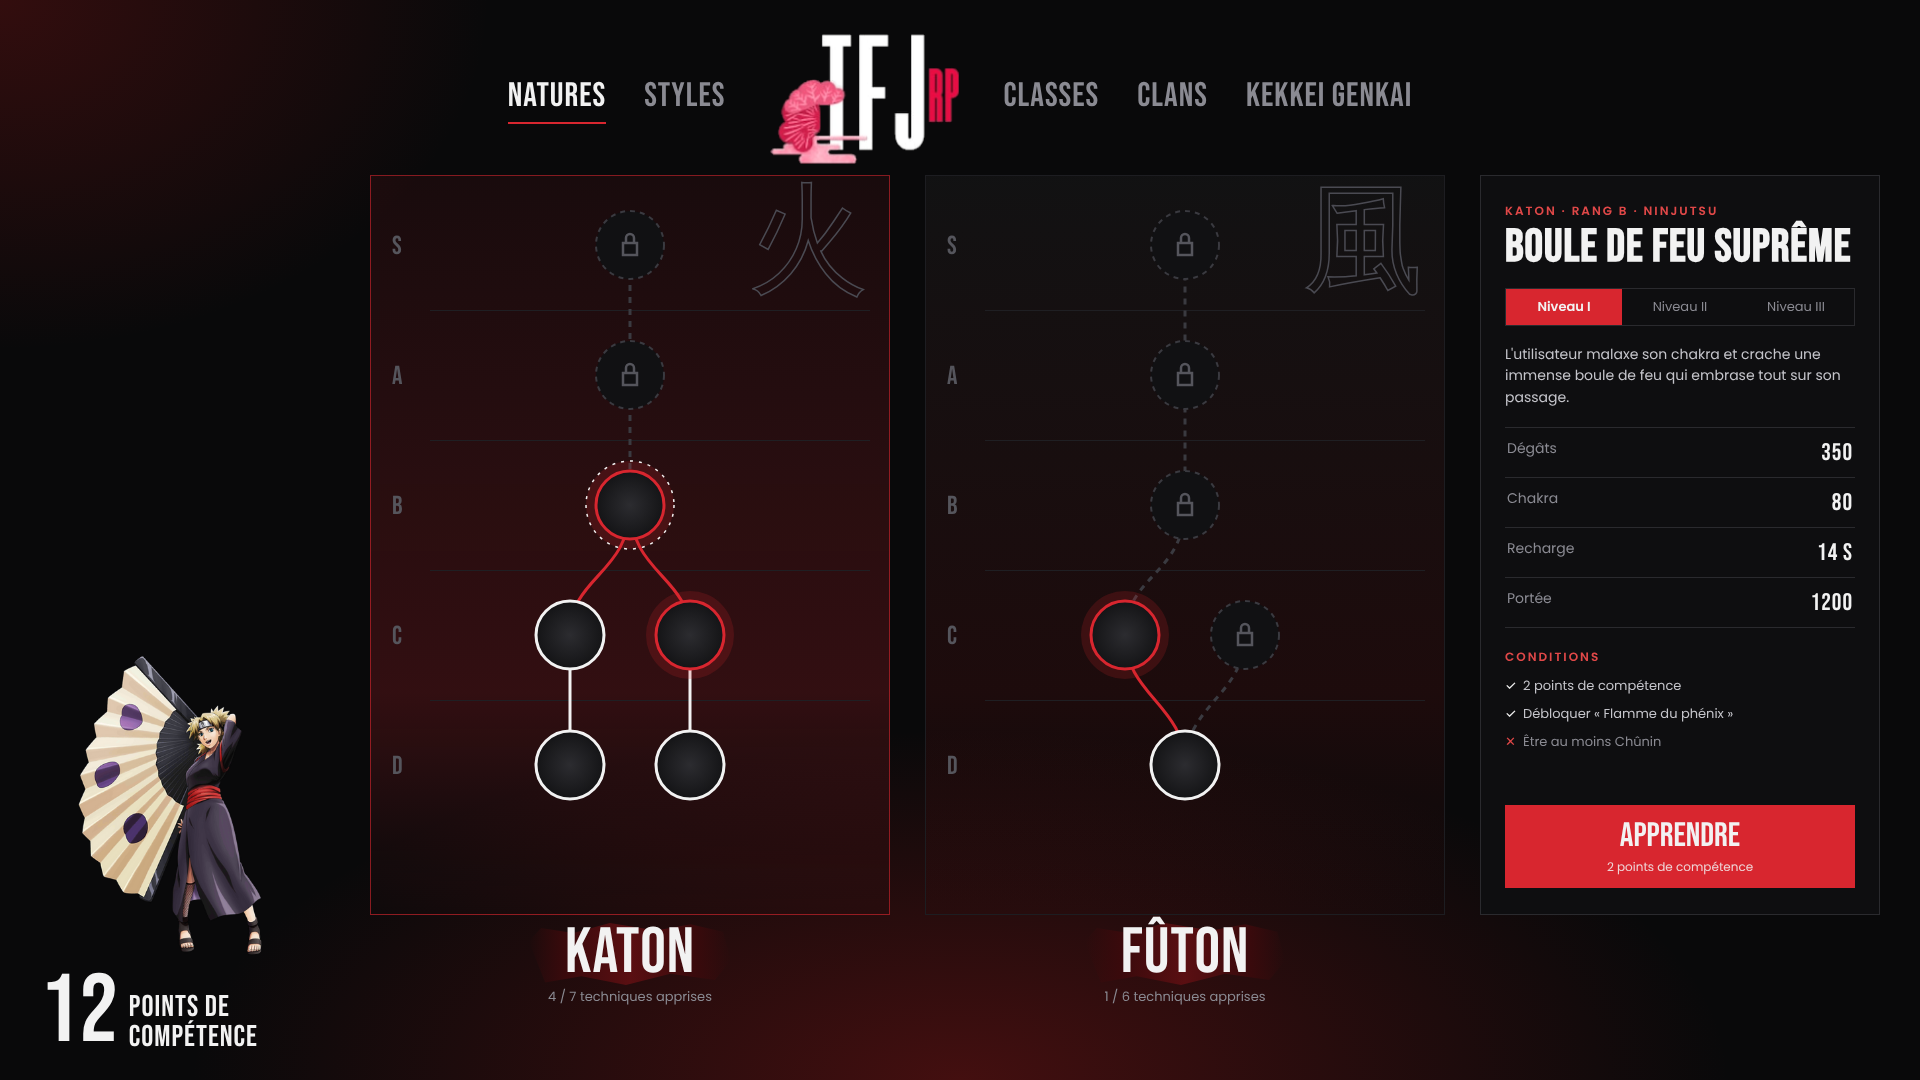
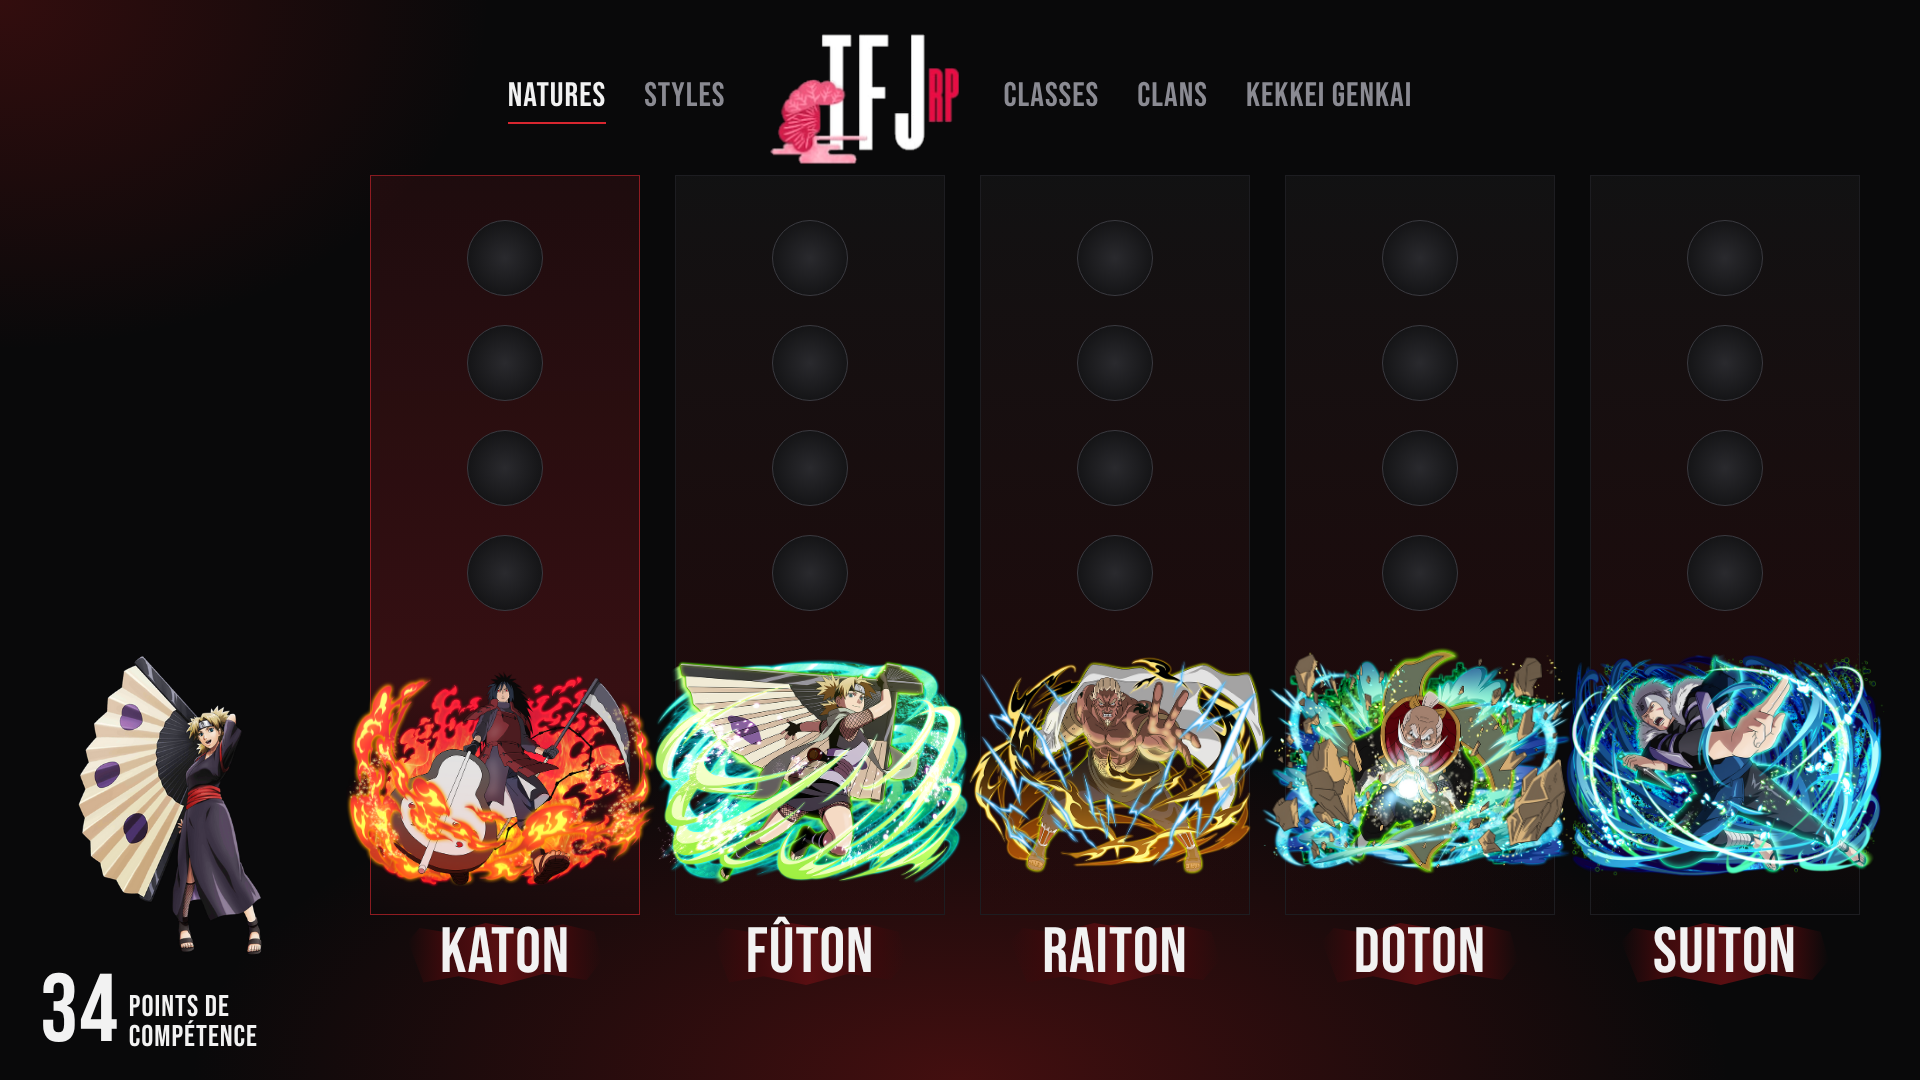
F4 Natures : meme disposition que Classes, 5 natures avec leurs illustrations
Claude-Session: https://claude.ai/code/session_01WNq6bnfK84GAyjbejrSsQj

diff --git a/maquettes/classe/maquette_f4_natures.html b/maquettes/classe/maquette_f4_natures.html
@@ -5,109 +5,102 @@
 <title>TFJ F4 Natures</title>
 <link href="https://fonts.googleapis.com/css2?family=Bebas+Neue&family=Poppins:wght@400;600;700&display=block" rel="stylesheet">
 <style>
-/* Onglet Natures du F4, meme style que maquette_f4_classe.html */
-:root{--noir:#09090a;--bord:#2a2a2e;--gris:#8a8a92;--gris2:#3a3a40;--blanc:#f2f2f2;--rouge:#b01a1a;--rougeV:#d8262f;--rougeT:#e04848}
+/* Meme disposition que le F4 "Classe" actuel, style TFJ noir / rouge / blanc.
+   Images : deposer les fichiers dans images/ avec les noms indiques sur chaque emplacement. */
+:root{--noir:#09090a;--bord:#2a2a2e;--gris:#8a8a92;--gris2:#3a3a40;--blanc:#f2f2f2;--rouge:#b01a1a;--rougeV:#d8262f}
 *{box-sizing:border-box;margin:0;padding:0}
 body{width:1920px;height:1080px;overflow:hidden;position:relative;font-family:Poppins,sans-serif;color:var(--blanc);
  background:radial-gradient(1100px 500px at 50% 100%,rgba(176,26,26,.35),transparent 70%),radial-gradient(700px 500px at 0% 0%,rgba(176,26,26,.25),transparent 70%),var(--noir)}
 .t{font-family:'Bebas Neue',sans-serif;letter-spacing:1px}
+/* emplacement d'image : cadre pointille tant que l'image n'est pas fournie */
+.slot{position:absolute;display:flex;align-items:center;justify-content:center;border:1px dashed #55555c;color:#77777e;font-size:13px;text-align:center}
+.slot img{position:absolute;inset:0;width:100%;height:100%;object-fit:contain}
+.slot img.ko{display:none}
+.slot:has(img:not(.ko)){border:none;color:transparent}
+/* onglets du haut */
 .nav{position:absolute;top:34px;left:0;right:0;display:flex;justify-content:center;align-items:center;gap:38px}
 .nav a{font-size:34px;color:var(--gris);padding-bottom:6px;border-bottom:2px solid transparent}
+.nav a{display:flex;align-items:center;gap:10px}
 .nav a.on{color:var(--blanc);border-color:var(--rougeV)}
-.nav img{width:190px;height:130px;object-fit:contain;margin:0 6px}
-/* colonnes d'arbre */
-.col{position:absolute;top:175px;width:520px;height:820px}
-.col .fond{position:absolute;inset:0 0 80px;background:linear-gradient(180deg,rgba(255,255,255,.035),rgba(176,26,26,.12) 70%,transparent);border:1px solid #1d1d21}
-.col.on .fond{border-color:rgba(216,38,47,.6);background:linear-gradient(180deg,rgba(216,38,47,.08),rgba(216,38,47,.2) 70%,transparent)}
-.kanji{position:absolute;right:22px;top:6px;font-size:120px;line-height:1;color:transparent;-webkit-text-stroke:1.5px #4a4a52;font-family:serif}
-.rang{position:absolute;left:22px;font-size:26px;color:#55555c}
-.ligne{position:absolute;left:60px;right:20px;height:1px;background:#1f1f23}
-.col svg{position:absolute;inset:0;width:520px;height:740px}
+.nav .logo{position:relative;width:190px;height:130px;margin:0 6px}
+/* colonnes */
+.col{position:absolute;top:175px;width:290px;height:820px}
+.col:before{content:"";position:absolute;inset:0 10px 80px;background:linear-gradient(180deg,rgba(255,255,255,.035),rgba(176,26,26,.12) 70%,transparent);border:1px solid #1d1d21}
+.col.on:before{border-color:rgba(216,38,47,.6);background:linear-gradient(180deg,rgba(216,38,47,.10),rgba(216,38,47,.22) 70%,transparent)}
+.palier{position:absolute;left:0;right:0;display:flex;justify-content:center}
+/* icone de la technique : reprise telle quelle du skill tree existant */
+.palier .gem{width:76px;height:76px;border-radius:50%;background:radial-gradient(circle,#2a2a2e,#151517 70%);border:1px solid #3a3a40}
+.val{font-size:42px;line-height:1;display:flex;align-items:center;gap:6px}
+.val i{font-style:normal;color:var(--rougeV);font-size:26px}
+.sous{font-size:13px;color:var(--gris);margin-top:2px}
+.illu{left:-15px;top:440px;width:320px;height:300px}
 .nom{position:absolute;left:0;right:0;top:742px;text-align:center}
-.nom .t{position:relative;display:inline-block;font-size:64px;line-height:1;padding:4px 30px 0}
+.nom .t{position:relative;display:inline-flex;align-items:center;gap:12px;font-size:64px;line-height:1;padding:4px 26px 0}
+/* trace de pinceau sous le titre */
 .nom .t:before{content:"";position:absolute;inset:6px -6px 0;z-index:-1;background:linear-gradient(90deg,transparent,#3a0a0c 18%,#5a0f12 50%,#3a0a0c 82%,transparent);clip-path:polygon(0 30%,6% 8%,22% 16%,40% 0,63% 12%,80% 2%,96% 14%,100% 60%,92% 92%,70% 82%,48% 100%,26% 86%,8% 96%)}
-.nom small{display:block;font-size:13px;color:var(--gris);margin-top:2px}
-/* panneau de detail */
-.det{position:absolute;left:1480px;top:175px;width:400px;height:740px;border:1px solid var(--bord);background:#0e0e10;padding:26px 24px;display:flex;flex-direction:column}
-.det .lib{font-size:12px;font-weight:600;letter-spacing:2px;color:var(--rougeT);text-transform:uppercase}
-.det h2{font-size:46px;line-height:.95;margin-top:6px}
-.niv{display:flex;margin-top:18px;border:1px solid var(--bord)}
-.niv div{flex:1;text-align:center;padding:8px 0;font-size:13px;color:var(--gris)}
-.niv .on{background:var(--rougeV);color:var(--blanc);font-weight:600}
-.desc{font-size:14px;color:#c4c4ca;line-height:1.55;margin-top:18px}
-.stats{margin-top:18px;border-top:1px solid var(--bord)}
-.stats div{display:flex;justify-content:space-between;padding:10px 2px;border-bottom:1px solid var(--bord);font-size:14px;color:var(--gris)}
-.stats b{color:var(--blanc);font-family:'Bebas Neue';font-size:24px;font-weight:400;letter-spacing:1px}
-.cond{margin-top:20px} .cond p{font-size:13px;padding:4px 0;color:#c4c4ca}
-.cond p i{font-style:normal;display:inline-block;width:18px;color:var(--blanc)} .cond p.ko{color:var(--gris)} .cond p.ko i{color:var(--rougeT)}
-.btn{margin-top:auto;background:var(--rougeV);text-align:center;padding:14px 0 10px}
-.btn b{display:block;font-family:'Bebas Neue';font-size:34px;font-weight:400;line-height:1}
-.btn span{font-size:12px;opacity:.85}
-/* bas gauche */
-.mascotte{position:absolute;left:0;top:640px;width:340px;height:330px;object-fit:contain}
-.points{position:absolute;left:40px;top:975px;display:flex;align-items:flex-end;gap:10px}
-.points b{font-family:'Bebas Neue';font-size:96px;line-height:.8;font-weight:400}
-.points span{font-size:30px;line-height:1}
+.nom svg{width:46px;height:46px}
+/* bas */
+.mascotte{left:0;top:640px;width:340px;height:330px}
+.gemmes{position:absolute;left:40px;top:975px;display:flex;align-items:flex-end;gap:10px}
+.gemmes b{font-family:'Bebas Neue';font-size:96px;line-height:.8;font-weight:400}
+.gemmes span{font-size:30px;line-height:1}
 </style>
 </head>
 <body>
-<nav class="nav t"><a class="on">NATURES</a><a>STYLES</a><img src="images/logo.png"><a>CLASSES</a><a>CLANS</a><a>KEKKEI GENKAI</a></nav>
+<nav class="nav t">
+  <a class="on">NATURES</a><a>STYLES</a>
+  <div class="slot logo">logo.png<img src="images/logo.png" onerror="this.className='ko'"></div>
+  <a>CLASSES</a><a>CLANS</a><a>KEKKEI GENKAI</a>
+</nav>
 
-<!-- noeud : rond = icone existante de la technique. appris = blanc, disponible = rouge, verrouille = gris pointille -->
-<svg width="0" height="0" style="position:absolute"><defs>
-  <radialGradient id="ic"><stop offset="0" stop-color="#2c2c30"/><stop offset="1" stop-color="#141416"/></radialGradient>
-  <g id="appris"><circle r="34" fill="url(#ic)" stroke="#f2f2f2" stroke-width="3"/></g>
-  <g id="dispo"><circle r="44" fill="#d8262f" opacity=".18"/><circle r="34" fill="url(#ic)" stroke="#d8262f" stroke-width="3"/></g>
-  <g id="verrou"><circle r="34" fill="#111113" stroke="#3a3a40" stroke-width="2" stroke-dasharray="5 5"/><path d="M-7 -2 h14 v12 h-14 z M-4 -2 v-5 a4 4 0 0 1 8 0 v5" fill="none" stroke="#55555c" stroke-width="2.5"/></g>
-  <g id="choisi"><circle r="44" fill="none" stroke="#f2f2f2" stroke-width="1.5" stroke-dasharray="3 6"/></g>
-</defs></svg>
 
-<div class="col on" style="left:370px">
-  <div class="fond"></div><div class="kanji">火</div>
-  <div class="rang t" style="top:56px">S</div><div class="rang t" style="top:186px">A</div><div class="rang t" style="top:316px">B</div><div class="rang t" style="top:446px">C</div><div class="rang t" style="top:576px">D</div>
-  <div class="ligne" style="top:135px"></div><div class="ligne" style="top:265px"></div><div class="ligne" style="top:395px"></div><div class="ligne" style="top:525px"></div>
-  <svg viewBox="0 0 520 740">
-    <g fill="none" stroke-width="3">
-      <path d="M200 590 V460" stroke="#f2f2f2"/><path d="M320 590 C320 530 320 520 320 460" stroke="#f2f2f2"/>
-      <path d="M200 460 C200 400 260 400 260 330" stroke="#d8262f"/><path d="M320 460 C320 400 260 400 260 330" stroke="#d8262f"/>
-      <path d="M260 330 V200 M260 200 V70" stroke="#3a3a40" stroke-dasharray="6 6"/>
-    </g>
-    <use href="#verrou" x="260" y="70"/><use href="#verrou" x="260" y="200"/>
-    <use href="#dispo" x="260" y="330"/><use href="#choisi" x="260" y="330"/>
-    <use href="#appris" x="200" y="460"/><use href="#dispo" x="320" y="460"/>
-    <use href="#appris" x="200" y="590"/><use href="#appris" x="320" y="590"/>
-  </svg>
-  <div class="nom"><div class="t">KATON</div><small>4 / 7 techniques apprises</small></div>
+<!-- 5 colonnes = 5 natures du skill tree (icones de techniques existantes) -->
+<div class="col on" style="left:360px">
+  <div class="palier" style="top:45px"><span class="gem"></span></div>
+  <div class="palier" style="top:150px"><span class="gem"></span></div>
+  <div class="palier" style="top:255px"><span class="gem"></span></div>
+  <div class="palier" style="top:360px"><span class="gem"></span></div>
+  <div class="slot illu">katon.png<img src="images/katon.png" onerror="this.className='ko'"></div>
+  <div class="nom"><div class="t">KATON</div></div>
 </div>
 
-<div class="col" style="left:925px">
-  <div class="fond"></div><div class="kanji">風</div>
-  <div class="rang t" style="top:56px">S</div><div class="rang t" style="top:186px">A</div><div class="rang t" style="top:316px">B</div><div class="rang t" style="top:446px">C</div><div class="rang t" style="top:576px">D</div>
-  <div class="ligne" style="top:135px"></div><div class="ligne" style="top:265px"></div><div class="ligne" style="top:395px"></div><div class="ligne" style="top:525px"></div>
-  <svg viewBox="0 0 520 740">
-    <g fill="none" stroke-width="3">
-      <path d="M260 590 C260 530 200 520 200 460" stroke="#d8262f"/><path d="M260 590 C260 530 320 520 320 460" stroke="#3a3a40" stroke-dasharray="6 6"/>
-      <path d="M200 460 C200 400 260 400 260 330 V70" stroke="#3a3a40" stroke-dasharray="6 6"/>
-    </g>
-    <use href="#verrou" x="260" y="70"/><use href="#verrou" x="260" y="200"/><use href="#verrou" x="260" y="330"/>
-    <use href="#dispo" x="200" y="460"/><use href="#verrou" x="320" y="460"/>
-    <use href="#appris" x="260" y="590"/>
-  </svg>
-  <div class="nom"><div class="t">FÛTON</div><small>1 / 6 techniques apprises</small></div>
+<div class="col" style="left:665px">
+  <div class="palier" style="top:45px"><span class="gem"></span></div>
+  <div class="palier" style="top:150px"><span class="gem"></span></div>
+  <div class="palier" style="top:255px"><span class="gem"></span></div>
+  <div class="palier" style="top:360px"><span class="gem"></span></div>
+  <div class="slot illu">futon.png<img src="images/futon.png" onerror="this.className='ko'"></div>
+  <div class="nom"><div class="t">FÛTON</div></div>
 </div>
 
-<div class="det">
-  <div class="lib">Katon · Rang B · Ninjutsu</div>
-  <h2 class="t">BOULE DE FEU SUPRÊME</h2>
-  <div class="niv"><div class="on">Niveau I</div><div>Niveau II</div><div>Niveau III</div></div>
-  <p class="desc">L'utilisateur malaxe son chakra et crache une immense boule de feu qui embrase tout sur son passage.</p>
-  <div class="stats"><div>Dégâts<b>350</b></div><div>Chakra<b>80</b></div><div>Recharge<b>14 s</b></div><div>Portée<b>1200</b></div></div>
-  <div class="cond"><div class="lib" style="margin-bottom:6px">Conditions</div>
-    <p><i>✓</i>2 points de compétence</p><p><i>✓</i>Débloquer « Flamme du phénix »</p><p class="ko"><i>✕</i>Être au moins Chûnin</p></div>
-  <div class="btn"><b>APPRENDRE</b><span>2 points de compétence</span></div>
+<div class="col" style="left:970px">
+  <div class="palier" style="top:45px"><span class="gem"></span></div>
+  <div class="palier" style="top:150px"><span class="gem"></span></div>
+  <div class="palier" style="top:255px"><span class="gem"></span></div>
+  <div class="palier" style="top:360px"><span class="gem"></span></div>
+  <div class="slot illu">raiton.png<img src="images/raiton.png" onerror="this.className='ko'"></div>
+  <div class="nom"><div class="t">RAITON</div></div>
 </div>
 
-<img class="mascotte" src="images/mascotte.png">
-<div class="points t"><b>12</b><span>POINTS DE<br>COMPÉTENCE</span></div>
+<div class="col" style="left:1275px">
+  <div class="palier" style="top:45px"><span class="gem"></span></div>
+  <div class="palier" style="top:150px"><span class="gem"></span></div>
+  <div class="palier" style="top:255px"><span class="gem"></span></div>
+  <div class="palier" style="top:360px"><span class="gem"></span></div>
+  <div class="slot illu">doton.png<img src="images/doton.png" onerror="this.className='ko'"></div>
+  <div class="nom"><div class="t">DOTON</div></div>
+</div>
+
+<div class="col" style="left:1580px">
+  <div class="palier" style="top:45px"><span class="gem"></span></div>
+  <div class="palier" style="top:150px"><span class="gem"></span></div>
+  <div class="palier" style="top:255px"><span class="gem"></span></div>
+  <div class="palier" style="top:360px"><span class="gem"></span></div>
+  <div class="slot illu">suiton.png<img src="images/suiton.png" onerror="this.className='ko'"></div>
+  <div class="nom"><div class="t">SUITON</div></div>
+</div>
+
+<div class="slot mascotte">mascotte.png<img src="images/mascotte.png" onerror="this.className='ko'"></div>
+<div class="gemmes t"><b>34</b><span>POINTS DE<br>COMPÉTENCE</span></div>
 </body>
 </html>
